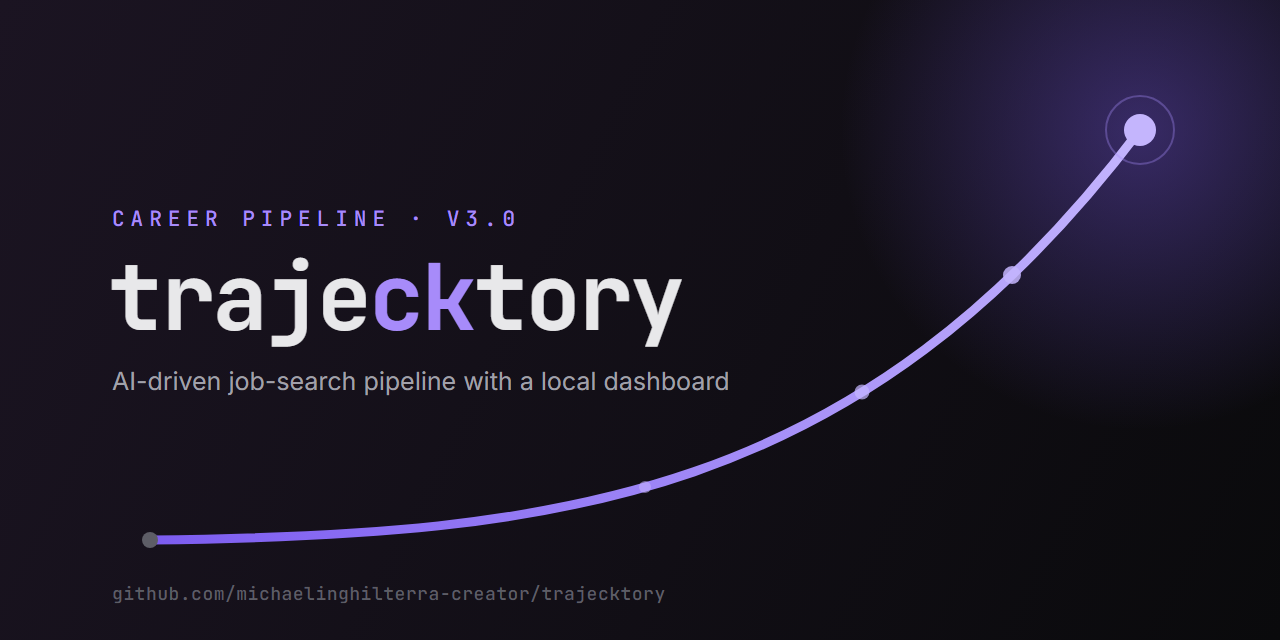
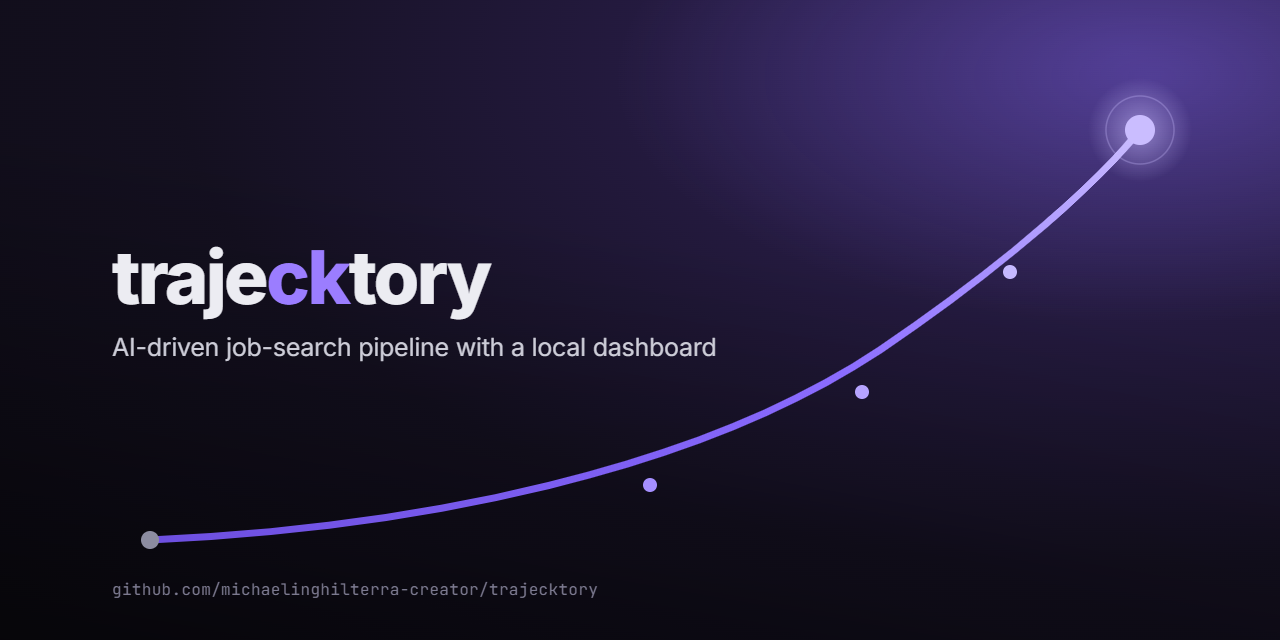
docs: rewrite README through a product-led lens and regenerate all screenshots with invented data

diff --git a/README.md b/README.md
@@ -1,12 +1,12 @@
 # trajecktory
 
 <p align="center">
-  <img src="docs/og-image.png" alt="trajecktory: AI-driven job-search pipeline with a local dashboard" width="820">
+  <img src="docs/og-image.png" alt="trajecktory: run your whole job search from one local dashboard" width="820">
 </p>
 
 <p align="center">
-  <strong>The complete job hunt, run from one dashboard.</strong><br>
-  Companies use AI to filter candidates. trajecktory gives you AI to <em>choose</em> companies — scan, evaluate, tailor, apply, track, and follow up, all from a local web dashboard.
+  <strong>Your entire job search, run from one dashboard.</strong><br>
+  Companies use AI to filter you out. trajecktory gives you AI to run the whole search: find the roles worth your time, tailor for each one, work the right people, and never let a thread go cold. All local, all yours.
 </p>
 
 <p align="center">
@@ -19,86 +19,142 @@
 </p>
 
 <p align="center">
-  <img src="docs/dashboard-overview.png" alt="Dashboard Overview — pipeline funnel, response rate, and score distribution" width="820">
+  <img src="docs/dashboard-overview.png" alt="Overview: a weekly scorecard of your inputs against floors and your outcomes against sourced benchmarks" width="820">
 </p>
 
 <p align="center">
-  <img src="docs/dashboard-analytics.png" alt="Pipeline Analytics — conversion, comp positioning, and archetype fit" width="405">
-  <img src="docs/dashboard-insights.png" alt="AI Insights — what's working, what's not, and this week's focus" width="405">
+  <img src="docs/dashboard-pipeline.png" alt="Pipeline: every role scored against your CV, tracked in one place" width="405">
+  <img src="docs/dashboard-insights.png" alt="Insights: honest analytics with confidence ranges, not fabricated benchmarks" width="405">
 </p>
 
 <p align="center">
-  <img src="docs/dashboard-drawer.png" alt="Per-role evaluation drawer — score breakdown, recommendation, and cheat sheet" width="405">
-  <img src="docs/dashboard-followups.png" alt="Follow-Up cadence — warm threads worth a nudge" width="405">
+  <img src="docs/dashboard-followups.png" alt="Follow-Ups: who has gone quiet, who is overdue, and the nudge already drafted" width="405">
+  <img src="docs/dashboard-drawer.png" alt="Per-role drawer: the full evaluation as a decision, not a wall of text" width="405">
 </p>
 
 <p align="center">
-  <img src="docs/dashboard-pipeline.png" alt="Pipeline tracker — every role, scored and tracked" width="405">
-  <img src="docs/dashboard-recruiters.png" alt="Recruiters CRM — a synthetic outreach funnel" width="405">
+  <img src="docs/dashboard-recruiters.png" alt="Recruiters CRM: track every contact and draft outreach in your voice" width="405">
+  <img src="docs/dashboard-posts.png" alt="Posts: draft LinkedIn and X posts, edit them, queue them, schedule through Buffer" width="405">
 </p>
 
 ---
+
+## Why this exists
+
+A modern job search is a dozen disconnected tools: a spreadsheet, forty browser tabs, your inbox,
+LinkedIn, a folder of resume versions, and a nagging feeling you forgot to follow up with someone.
+The busywork crowds out the two things that actually move a search forward: reaching the right
+people, and putting a genuinely tailored application in front of them.
+
+trajecktory collapses all of it into **one local command center**. You control your entire
+job-search ecosystem and workflow from a single dashboard on your own machine, so your time goes to
+the few roles worth it and the people who can actually help.
+
+## What it does for you
+
+- **Saves you time on the wrong roles.** It scans job boards (Greenhouse, Ashby, Lever, company
+  pages), scores every posting against your actual CV with a structured A-to-G report, and tells you
+  which handful is worth your energy. It recommends against anything below a real fit, because your
+  time and the recruiter's are both worth respecting.
+- **Tailors each application, for real.** One click produces an ATS-clean Word resume and cover
+  letter tuned to that specific posting, down to reordering your bullets to lead with what the role
+  cares about. Tailoring is the single largest lever in the data, and this is the lever pulled.
+- **Makes sure nothing goes cold.** It schedules your follow-ups on a sensible cadence, shows you at
+  a glance who is overdue and who to give up on, and drafts the nudge for you. The thread you would
+  have forgotten is the one it surfaces.
+- **Finds and works the right contacts.** A recruiter CRM and an in-network (target-talent) CRM, a
+  LinkedIn connection queue for people you can only reach there, and LinkedIn and X posts drafted in
+  your voice and scheduled through Buffer, so you build inbound while you work outbound.
+- **Reads your inbox so you do not have to.** An optional, read-only Gmail connection catches
+  replies and bounces, logs each against the right application, and drafts your response. It never
+  sends anything on its own.
+- **Every AI-written message is yours to edit.** Outreach emails, LinkedIn notes, follow-ups, posts:
+  each one lands in an editable field, and you tweak it before it goes anywhere. Nothing is a black
+  box you have to accept.
+- **Coaches you with honest numbers.** A weekly scorecard measures the inputs you control against
+  floors and your outcomes against sourced benchmarks. Conversion is reported by the furthest stage
+  each role ever reached, thin samples are flagged as too few to rate rather than guessed, and there
+  are no fabricated benchmarks anywhere.
+- **Preps you for the room.** Per-company interview prep opens as a glance (who, when, the opening,
+  the one story, the reset) with the deep reference one click away, not a wall of text.
+
+> **Not a spray-and-pray tool.** trajecktory is a filter, not a firehose. It surfaces the few roles
+> worth applying to and argues against the rest. It never submits anything: it fills the forms,
+> drafts the answers, and generates the documents, then stops so you make the final call.
+
+## Local, private, yours
+
+Everything runs on `http://localhost:3333`, bound to `127.0.0.1`. Your CV, contacts, tracker, and
+mail stay on your machine and are sent only to the AI provider you choose. No cloud, no database, no
+telemetry, no account. The tool works for you and answers to you.
 
 ## Download (Windows, no setup)
 
 **Just want to run it?** Download the Windows installer from the
 **[latest release](https://github.com/michaelinghilterra-creator/trajecktory/releases/latest)**
-and run it. It bundles everything (Node, Chromium, Claude Code, and Git) and installs in a
-few clicks. The only thing you provide is a [Claude](https://claude.ai) subscription (a paid
-plan) and a one-time sign-in.
+and run it. It bundles everything (Node, Chromium, Claude Code, and Git) and installs in a few
+clicks. The only thing you provide is a [Claude](https://claude.ai) subscription (a paid plan) and a
+one-time sign-in.
 
-> The installer is not code-signed yet, so Windows SmartScreen may warn "unknown publisher"
-> on first run. Click **More info -> Run anyway**.
+> The installer is not code-signed yet, so Windows SmartScreen may warn "unknown publisher" on first
+> run. Click **More info -> Run anyway**.
 
 Prefer to run from source (Node + Claude Code)? See **[docs/SETUP.md](docs/SETUP.md)**.
 
 ## First run: what to expect
 
-From download to your first evaluated role. The installer and the in-app Launchpad do the heavy lifting; you mostly review and confirm.
+From download to your first evaluated role. The installer and the in-app Launchpad do the heavy
+lifting; you mostly review and confirm.
 
-1. **Install.** Run the installer (a few clicks; it bundles Node, Chromium, Claude Code, and Git). If Windows SmartScreen warns "unknown publisher," click **More info -> Run anyway**. Restart if it asks (that puts Git on your PATH).
-2. **Launch.** Open trajecktory from the desktop/Start Menu shortcut, or tell Claude Desktop in Code mode "Start the live dashboard." It starts a local server and opens the dashboard at http://localhost:3333.
-3. **Take any update.** If an "Update available" banner appears, click **Update now**. It is one-click and updates system files only, so your CV, profile, tracker, and reports are never touched.
-4. **Work the Launchpad.** The Setup tab guides you with a readiness meter: paste your CV (or a LinkedIn URL, or upload a file), then confirm your identity, target roles, your edge, compensation, location rules, evaluation tuning, and companies to track. The generative steps hand you a copy-paste prompt to run in your own Claude Code; the rest you fill in and save.
-5. **Sign in to Claude.** Click "Sign in to Claude" in the left sidebar once (the bundled `claude login` on your own Claude plan). This is what lets Evaluate and Scan run. No Anthropic API key is required; everything runs on your Claude subscription. An optional key is only a faster path for the writing features.
-6. **(Optional) Models and cost.** Under Setup -> Models & cost you can pick which model runs each step, see the approximate cost per run, and flip billing between your Claude plan and an API key. Sensible, cheaper defaults are already applied, so you can skip this.
-7. **Run your first search.** From the left sidebar: API Scan (free, no AI) pulls fresh roles, then Triage scores the best fits (the API-key workflow uses Agent Scan and Evaluate instead). Review the scored roles, deep-dive the strongest, let trajecktory tailor a resume and cover letter, and track it. It schedules the follow-ups.
+1. **Install.** Run the installer (a few clicks; it bundles Node, Chromium, Claude Code, and Git).
+   If SmartScreen warns "unknown publisher," click **More info -> Run anyway**. Restart if it asks
+   (that puts Git on your PATH).
+2. **Launch.** Open trajecktory from the desktop or Start Menu shortcut, or tell Claude in Code mode
+   "Start the live dashboard." It opens at http://localhost:3333.
+3. **Take any update.** If an "Update available" banner appears, click **Update now**. It is
+   one-click and updates system files only; your CV, profile, tracker, and reports are never touched.
+4. **Work the Launchpad.** The Setup tab guides you with a readiness meter: paste your CV (or a
+   LinkedIn URL, or upload a file), then confirm your identity, target roles, your edge, comp,
+   location rules, evaluation tuning, and companies to track.
+5. **Sign in to Claude.** Click "Sign in to Claude" in the sidebar once. This is what lets Evaluate
+   and Scan run, on your own Claude plan. No Anthropic API key is required; adding one is only an
+   optional, faster path for the writing features.
+6. **Run your first search.** From the sidebar: Scan (free, no AI) pulls fresh roles, then Triage
+   scores the best fits. Review the scored roles, deep-dive the strongest, let trajecktory tailor a
+   resume and cover letter, and track it. It schedules the follow-ups.
 
-Fuller version with more context: **[docs/onboarding/first-run.md](docs/onboarding/first-run.md)**. Illustrated walkthrough with screenshots: the guides in **[docs/onboarding](docs/onboarding)** (`guide1.html`, `guide2.html`).
+Fuller walkthrough: **[docs/onboarding/first-run.md](docs/onboarding/first-run.md)**. Illustrated
+guides: **[docs/onboarding](docs/onboarding)**.
 
-## What Is This
+## The dashboard, tab by tab
 
-trajecktory is a local, AI-driven command center for the entire job search, run from a web dashboard. Instead of juggling spreadsheets, browser tabs, and one-off prompts, you get a single pipeline that:
+- **Today** a weekly time-blocked cadence, a focus timer, a streak, and your to-dos.
+- **Overview** your weekly scorecard: inputs (verified touches, connects, cadence, screens booked)
+  against floors, outcomes (warm vs cold reply, expired-before-action) against sourced benchmarks.
+- **Pipeline & Tracker** browse, filter, and sort every application; a per-role drawer renders the
+  full A-to-G evaluation as a cheat sheet.
+- **Follow-Ups** the stale-thread action queue, with coach intelligence on what is overdue and a
+  drafted, editable nudge for each.
+- **Recruiters & Target Talent** two CRMs (external recruiters, in-network contacts) with
+  AI-drafted, voice-matched, editable outreach.
+- **LinkedIn** an SSI tracker, a connection queue, an engagement drafter, and a **Posts** composer:
+  write your own or have Claude draft them, edit either, queue them, and schedule to LinkedIn and X
+  through Buffer.
+- **Interview** per-company prep and a live "click a cue" board for the round you are about to run.
+- **Insights** honest coaching analytics, plus an optional Gmail sync that logs replies and bounces.
 
-- **Scans** ATS portals (Greenhouse, Ashby, Lever, company pages) for new roles
-- **Evaluates** each posting against your CV with a structured A-F score across 10 weighted dimensions, plus a Block G posting-legitimacy check
-- **Tailors** an ATS-optimized Word resume and cover letter per role
-- **Tracks** every application in one source of truth, with integrity checks
-- **Manages outreach** — a recruiter CRM, in-network (target-talent) outreach, and LinkedIn engagement, with AI-drafted messages in your voice
-- **Schedules follow-ups** on a sensible cadence so nothing goes stale
-- **Coaches** you with analytics on conversion, archetype fit, and rejection patterns
+## How it works
 
-> **Not a spray-and-pray tool.** trajecktory is a filter — it surfaces the few roles worth your time out of hundreds and recommends against applying below 4.0/5. It never submits anything; you always have the final call.
-
-## The Dashboard
-
-Everything runs from a local web dashboard (`http://localhost:3333`, bound to `127.0.0.1` — your data never leaves your machine):
-
-- **Launchpad** — guided first-run setup with a readiness meter
-- **Overview & Insights** — pipeline health, conversion rates, and coaching analytics
-- **Pipeline & Tracker** — browse, filter, and sort every application; a per-role drawer renders the full A-G evaluation as a cheat sheet
-- **Recruiters & Target Talent** — CRMs for external recruiters and in-network contacts, with AI-drafted, voice-matched outreach
-- **LinkedIn SSI** — track and draft engagement to grow your network deliberately
-- **One-click actions** — Scan and Evaluate run agentically in the background; Apply generates your tailored CV + cover letter
-
-## How It Works
-
-1. **Onboard** in the Launchpad: add your CV, profile, and target roles
-2. **Scan** portals (or paste a single job URL); dead postings are liveness-gated out before any AI spend
-3. **Evaluate** — Claude reads each posting against your CV (reasoning about fit, not keyword matching) and writes a structured report
-4. **Tailor** — generate a docx resume + cover letter customized to the role
-5. **Track & act** — manage status, follow-ups, and recruiter / in-network outreach from the dashboard
-6. **Learn** — insights show what's converting so you target better over time
+1. **Onboard** in the Launchpad: add your CV, profile, and target roles.
+2. **Scan** portals (or paste a single job URL); dead postings are liveness-gated out before any AI
+   spend.
+3. **Evaluate** Claude reads each posting against your CV (reasoning about fit, not keyword
+   matching) and writes a structured report. The headline score is derived by code from keyed
+   dimensions, with pay rated but deliberately kept from moving the score.
+4. **Tailor** generate a per-role docx resume + cover letter, bullets and all.
+5. **Track and act** manage status, follow-ups, and recruiter and in-network outreach from the
+   dashboard; capture replies from Gmail.
+6. **Learn** honest insights show what is actually converting, so you target better over time.
 
 ## Quick Start
 
@@ -112,65 +168,66 @@ npm --prefix dashboard-web ci
 npx playwright install chromium     # liveness checks + scraping
 
 # 2. Launch the dashboard
-npm --prefix dashboard-web start    # → http://localhost:3333
+npm --prefix dashboard-web start    # -> http://localhost:3333
 ```
 
-Open the dashboard and the **Launchpad** tab walks you through adding your CV, profile, and target companies. Run `node doctor.mjs` anytime to validate prerequisites.
+Open the dashboard and the **Launchpad** walks you through adding your CV, profile, and target
+companies. Run `node doctor.mjs` anytime to validate prerequisites.
 
-> **Credentials:** Evaluate and Scan run on **your own Claude Pro/Max login** (via the bundled `claude` CLI — no per-use API cost). Resume / cover-letter and outreach drafts use **your own Anthropic API key**, which you can add during setup or later. None of this is shared with anyone.
+> **Credentials:** Evaluate and Scan run on **your own Claude Pro/Max login** (via the bundled
+> `claude` CLI, no per-use API cost). Resume, cover-letter, and outreach drafts run on that same
+> plan by default, so **no Anthropic API key is required**; adding one is only an optional, faster
+> path for the writing features. None of this is shared with anyone.
 
-## Also Runs in Any Agent CLI
+## Also runs in any agent CLI
 
-Prefer the terminal? The same engine works headless. trajecktory follows the [open agent skill standard](https://agentskills.io), so it runs in Claude Code, Gemini CLI, or OpenCode — paste a job URL or use the slash commands. See [docs/SETUP.md](docs/SETUP.md) for the CLI workflow.
-
-## Pre-configured Portals
-
-The scanner ships with **45+ companies** and **19 search queries** across major boards. Copy `templates/portals.example.yml` to `portals.yml` and add your own:
-
-**AI Labs:** Anthropic, OpenAI, Mistral, Cohere, LangChain, Pinecone
-**Voice AI:** ElevenLabs, PolyAI, Parloa, Hume AI, Deepgram, Vapi, Bland AI
-**AI Platforms:** Retool, Airtable, Vercel, Temporal, Glean, Arize AI
-**Contact Center:** Ada, LivePerson, Sierra, Decagon, Talkdesk, Genesys
-**Enterprise:** Salesforce, Twilio, Gong, Dialpad
-**LLMOps:** Langfuse, Weights & Biases, Lindy, Cognigy, Speechmatics
-**Automation:** n8n, Zapier, Make.com
-**European:** Factorial, Attio, Tinybird, Clarity AI, Travelperk
-
-**Job boards searched:** Ashby, Greenhouse, Lever, Wellfound, Workable, RemoteFront
+Prefer the terminal? The same engine works headless. trajecktory follows the
+[open agent skill standard](https://agentskills.io), so it runs in Claude Code, Gemini CLI, or
+OpenCode: paste a job URL or use the slash commands. See [docs/SETUP.md](docs/SETUP.md).
 
 ## Tech Stack
 
-![Claude Code](https://img.shields.io/badge/Claude_Code-000?style=flat&logo=anthropic&logoColor=white)
-![Node.js](https://img.shields.io/badge/Node.js-339933?style=flat&logo=node.js&logoColor=white)
-![React](https://img.shields.io/badge/React-61DAFB?style=flat&logo=react&logoColor=black)
-![Express](https://img.shields.io/badge/Express-000?style=flat&logo=express&logoColor=white)
-![Playwright](https://img.shields.io/badge/Playwright-2EAD33?style=flat&logo=playwright&logoColor=white)
-
-- **Dashboard:** Node/Express + React (esbuild), served locally on `127.0.0.1`
-- **Agent:** Claude Code (also Gemini CLI / OpenCode) with custom skills and modes
-- **CV:** docx generation via adm-zip slot-swap (default), preserving your master template byte-for-byte
-- **Scanner:** Playwright + ATS APIs
-- **Data:** local Markdown + YAML + TSV — no database, no cloud, no telemetry
+- **Dashboard:** Node/Express + React (esbuild), served locally on `127.0.0.1`.
+- **Agent:** Claude Code (also Gemini CLI / OpenCode) with custom skills and modes.
+- **CV:** docx generation via adm-zip slot-swap and per-JD bullet tailoring, preserving your master
+  template byte-for-byte outside the parts it tailors.
+- **Scanner:** Playwright + ATS APIs.
+- **Data:** local Markdown + YAML + TSV. No database, no cloud, no telemetry.
 
 ## Origin
 
-trajecktory began as [career-ops](https://github.com/santifer/career-ops) by **santifer** (MIT) — a CLI-first job-search tool he used to evaluate 740+ offers, generate 100+ tailored CVs, and land a Head of Applied AI role ([his case study](https://santifer.io/career-ops-system)). trajecktory builds on that foundation and reshapes it into a dashboard-driven, full-pipeline product.
+trajecktory began as [career-ops](https://github.com/santifer/career-ops) by **santifer** (MIT), a
+CLI-first job-search tool he used to evaluate 740+ offers, generate 100+ tailored CVs, and land a
+Head of Applied AI role. trajecktory builds on that foundation and reshapes it into a
+dashboard-driven, full-pipeline command center.
 
 ## Ethical Use
 
-trajecktory is built for quality, not quantity. It never submits an application on your behalf — it fills forms, drafts answers, and generates resumes, then stops so you make the final call. It strongly discourages low-fit applications (below 4.0/5), because your time and the recruiter's are both worth respecting. A well-targeted application to five companies beats a generic blast to fifty.
+trajecktory is built for quality, not quantity. It never submits an application on your behalf: it
+fills forms, drafts answers, and generates resumes, then stops so you make the final call. It
+strongly discourages low-fit applications, because your time and the recruiter's are both worth
+respecting. A well-targeted application to five companies beats a generic blast to fifty.
 
 ## Disclaimer
 
-**trajecktory is a local, open-source tool — NOT a hosted service.** By using this software, you acknowledge:
+**trajecktory is a local, open-source tool, NOT a hosted service.** By using this software, you
+acknowledge:
 
-1. **You control your data.** Your CV, contact info, and personal data stay on your machine and are sent directly to the AI provider you choose. We do not collect, store, or have access to any of your data.
-2. **You control the AI.** The default prompts instruct the AI not to auto-submit applications, but models can behave unpredictably. If you modify the prompts or use different models, you do so at your own risk. **Always review AI-generated content for accuracy before submitting.**
-3. **You comply with third-party ToS.** Use this tool in accordance with the Terms of Service of the career portals you interact with (Greenhouse, Lever, Workday, LinkedIn, etc.). Do not use it to spam employers or overwhelm ATS systems.
-4. **No guarantees.** Evaluations are recommendations, not truth. AI models may hallucinate skills or experience. The authors are not liable for employment outcomes, rejected applications, account restrictions, or any other consequences.
+1. **You control your data.** Your CV, contact info, and personal data stay on your machine and are
+   sent directly to the AI provider you choose. We do not collect, store, or access any of it.
+2. **You control the AI.** The default prompts instruct the AI not to auto-submit applications, but
+   models can behave unpredictably. If you modify the prompts or use different models, you do so at
+   your own risk. **Always review AI-generated content before submitting.**
+3. **You comply with third-party ToS.** Use this tool in accordance with the Terms of Service of the
+   career portals you interact with. Do not use it to spam employers or overwhelm ATS systems.
+4. **No guarantees.** Evaluations are recommendations, not truth. AI models may hallucinate. The
+   authors are not liable for employment outcomes, rejected applications, account restrictions, or
+   any other consequences.
 
-See [LEGAL_DISCLAIMER.md](LEGAL_DISCLAIMER.md) for full details. Provided under the [MIT License](LICENSE) "as is", without warranty of any kind.
+See [LEGAL_DISCLAIMER.md](LEGAL_DISCLAIMER.md) for full details. Provided under the
+[MIT License](LICENSE) "as is", without warranty of any kind.
 
 ## License
 
-The code is licensed under [MIT](LICENSE). "trajecktory" is the project's brand name: forks are welcome under MIT, but please use your own product name and do not imply endorsement.
+The code is licensed under [MIT](LICENSE). "trajecktory" is the project's brand name: forks are
+welcome under MIT, but please use your own product name and do not imply endorsement.
